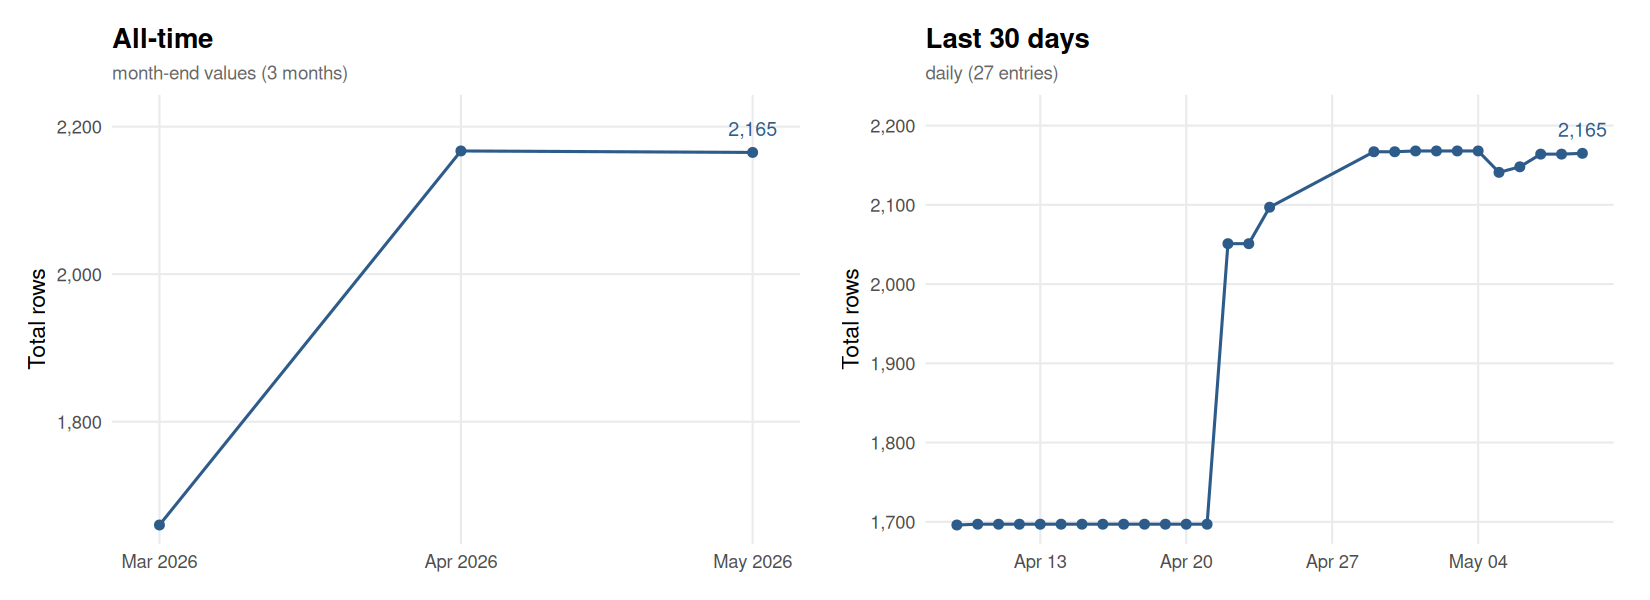
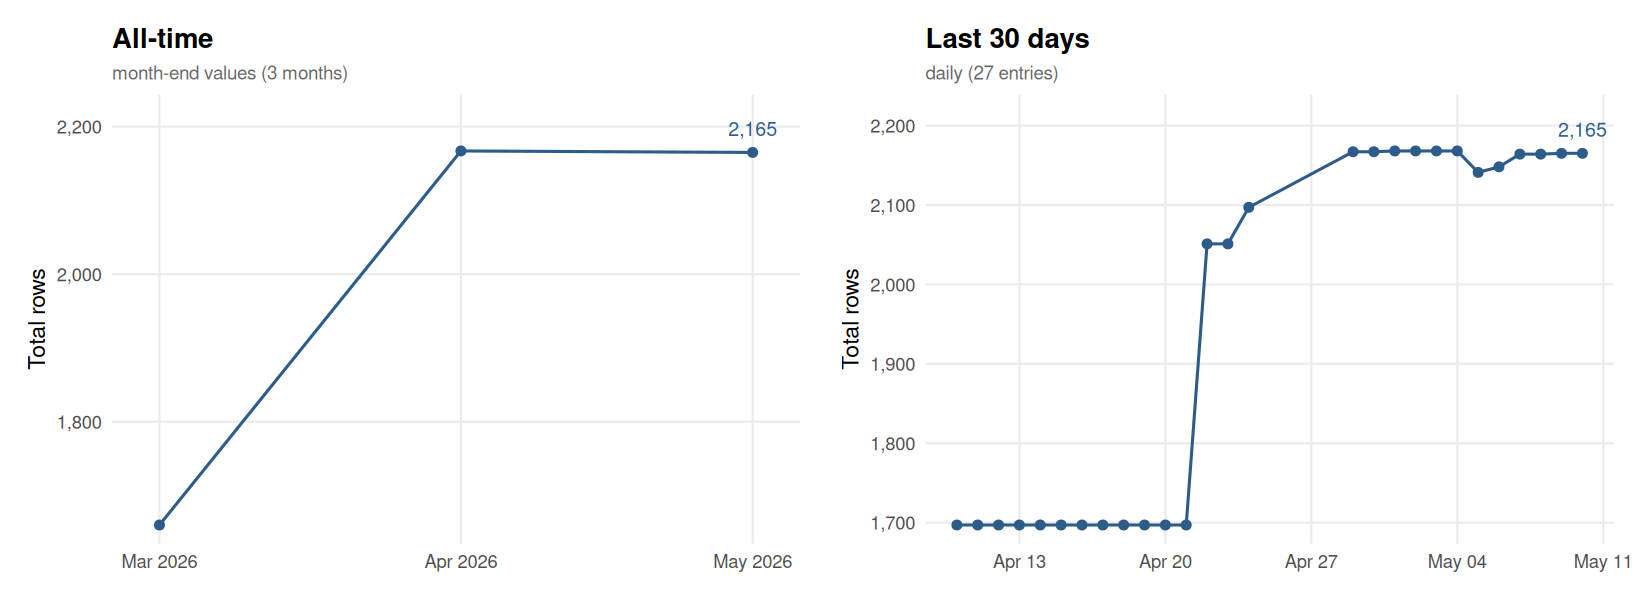
Update flora.csv [automated]

diff --git a/README.md b/README.md
@@ -438,14 +438,15 @@ For API issues:
 This chart is automatically updated after each pipeline run, showing the size of `output/flora.csv` over time.
 
 <!-- FLORA_UPDATE_LOG_START -->
-> **Latest (2026-05-09):** Total = 2,165 | Replications = 2,156 | Reproductions = 9
+> **Latest (2026-05-10):** Total = 2,165 | Replications = 2,156 | Reproductions = 9
 
 ![FLoRA dataset size over time](output/flora_history.png)
 
-<details><summary>Full history (51 entries)</summary>
+<details><summary>Full history (52 entries)</summary>
 
 | Date | Total | Replications | Reproductions |
 |------|------:|-------------:|--------------:|
+| 2026-05-10 | 2165 | 2156 | 9 |
 | 2026-05-09 | 2165 | 2156 | 9 |
 | 2026-05-08 | 2164 | 2155 | 9 |
 | 2026-05-07 | 2164 | 2155 | 9 |
